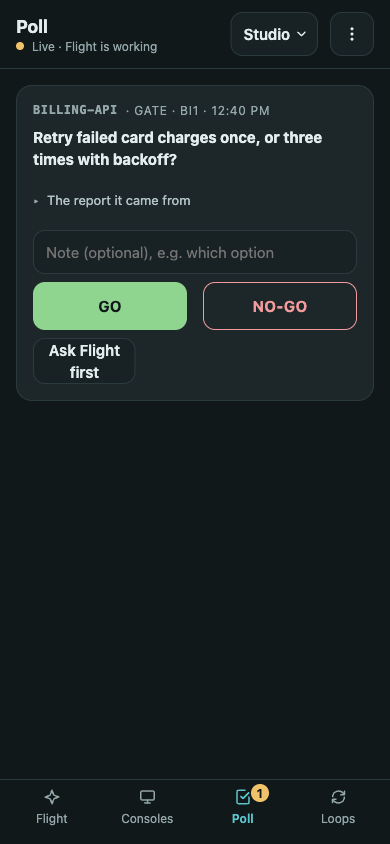
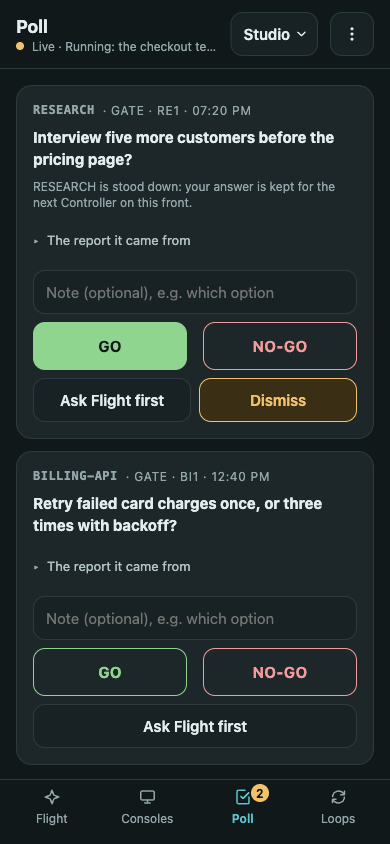
fix(app): keep the app's supervisor running, and show the latest Poll in the README (#24)
* fix(app): make sure the app's supervisor runs on every Flight turn

The supervisor that keeps the app running started only in session.start.
When the plugin's folder changed mid-session, the plugin loaded without a
session.start, so no supervisor ran and the app stayed down until
/console app was typed again.

Every Flight turn now starts the supervisor if none is running while the
standing setting is on, so the app is back within the next turn.

* docs(app): show the latest Poll in the README screenshot

diff --git a/tools/mods/mission-fleet/hooks/register.ts b/tools/mods/mission-fleet/hooks/register.ts
@@ -250,6 +250,9 @@ export const register: Register = on => {
       busySince = Date.now()
       flightActivity = 'Thinking'
       if (app) void pushState($, app).catch(() => undefined)
+      // A plugin load that skips session.start (its folder changed mid-session) starts no supervisor,
+      // so every turn of Flight's makes sure one is running while the standing setting is on.
+      if (!supervising && (await $.store.get(APP_ALWAYS).catch(() => false)) === true) void superviseApp($)
     }
     return started
   })

diff --git a/README.md b/README.md
@@ -26,11 +26,11 @@ argue its way around, and a control room you can run from your phone.
 <p align="center">
   <img src="docs/assets/app-phone-flight.png" alt="Flight: the morning summary across three fronts" width="240">
   &nbsp;
-  <img src="docs/assets/app-phone-poll.png" alt="The Poll: one decision waiting, go or no-go" width="240">
+  <img src="docs/assets/app-phone-poll.png" alt="The Poll: the decisions waiting on you, go or no-go" width="240">
   &nbsp;
   <img src="docs/assets/app-phone-consoles.png" alt="Consoles: one Controller per front, with its state" width="240">
 </p>
-<p align="center"><sub>The Mission Control App on a phone: Flight's morning summary, the one decision waiting on you, and the Controller running each front.</sub></p>
+<p align="center"><sub>The Mission Control App on a phone: Flight's morning summary, the decisions waiting on you, and the Controller running each front.</sub></p>
 
 ## What it does for you
 
